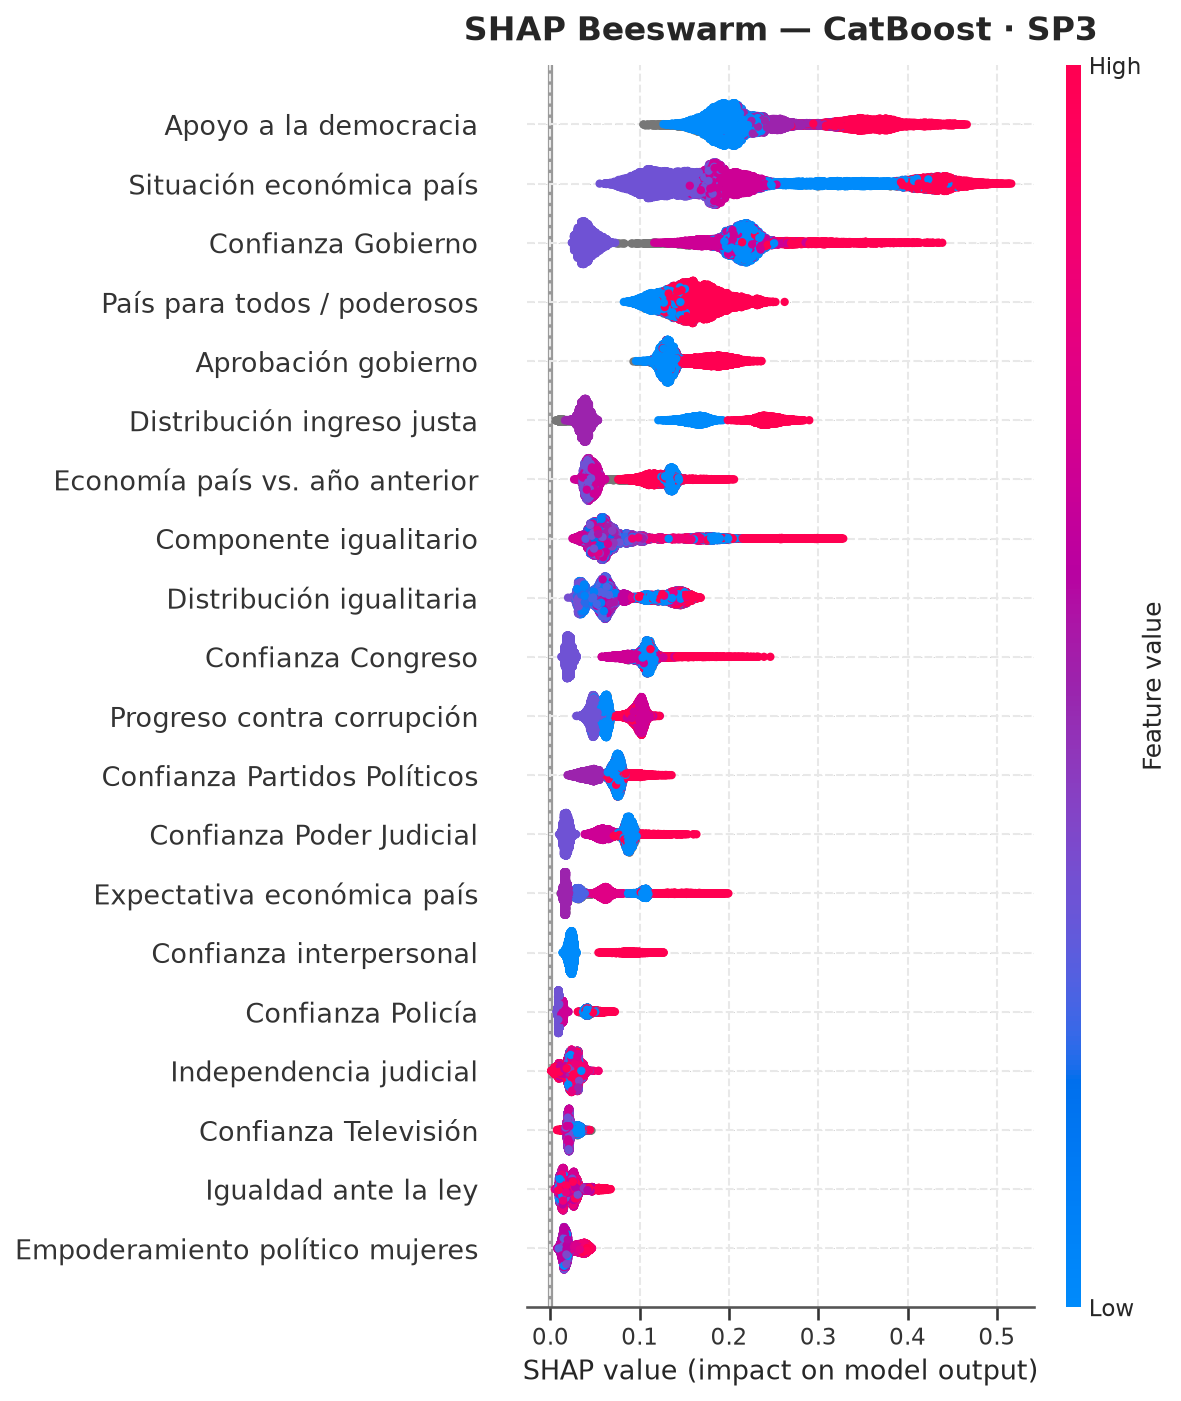
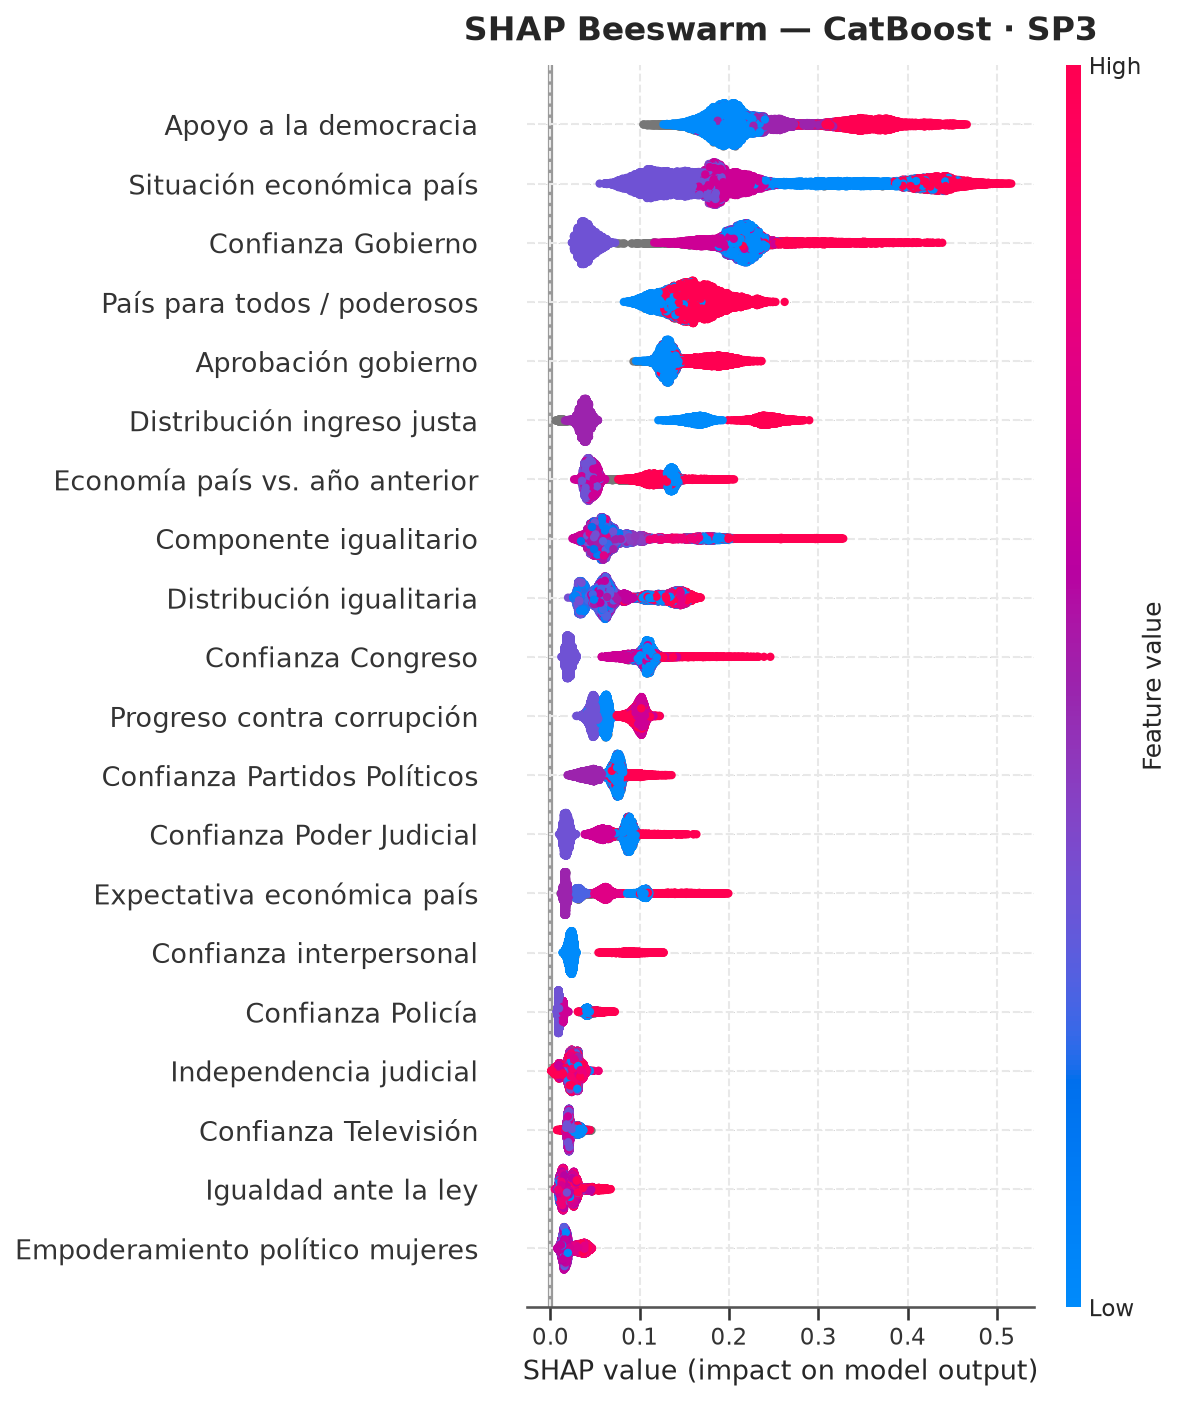
Versión antes de cambiar el OE3 de subperíodos a datos comparables

diff --git a/utils/io.py b/utils/io.py
@@ -53,6 +53,19 @@ def cargar_pipeline(nombre_modelo: str, subperiodo: str) -> Dict:
             f"Pipeline no encontrado: {ruta}\n"
             f"Asegúrate de haber ejecutado el notebook 02 de entrenamiento."
         )
+    try:
+        import torch
+        if not torch.cuda.is_available():
+            _orig_load = torch.load
+            torch.load = lambda f, *a, **kw: _orig_load(
+                f, *a, **{**kw, "map_location": kw.get("map_location", "cpu")}
+            )
+            try:
+                return joblib.load(ruta)
+            finally:
+                torch.load = _orig_load
+    except ImportError:
+        pass
     return joblib.load(ruta)
 
 

diff --git a/utils/config.py b/utils/config.py
@@ -11,7 +11,7 @@ from pathlib import Path
 # ====================================================
 
 PARAMETERS = {
-    "LOAD_SAMPLE": False,
+    "LOAD_SAMPLE": True,
     "SEED": 42,
     "YEAR_START": 1995,
     "YEAR_END": 2024,